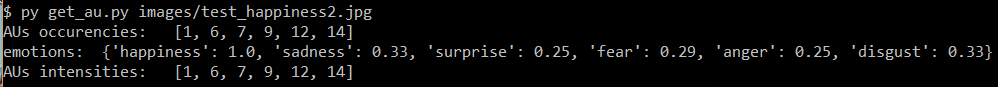
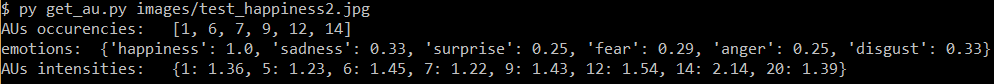
Risolto piccolo bug

diff --git a/get_au.py b/get_au.py
@@ -9,7 +9,7 @@ if __name__ == '__main__':
 	aus_int = get_img_aus_intensities(sys.argv[1])
 	print("AUs occurencies:  ", aus)
 	print("emotions: ", emotions)
-	print("AUs intensities:  ", aus)
+	print("AUs intensities:  ", aus_int)
 	img = Image.open(sys.argv[1])
 	imgplot = plt.imshow(img)
 	plt.title("AUs (occurencies): {}\n{}\nAUs (intensities): {}".format(aus, emotions, aus_int))
